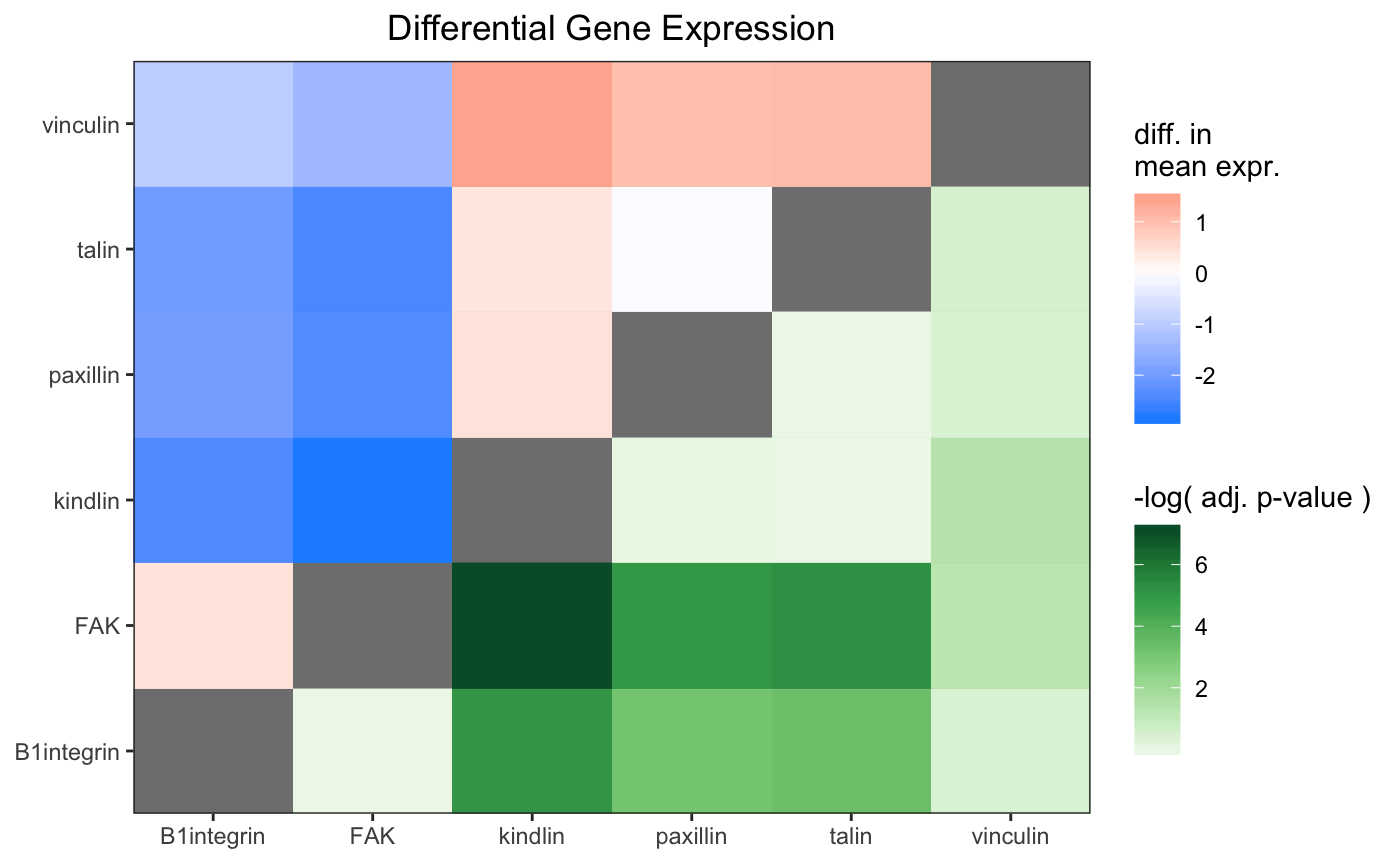
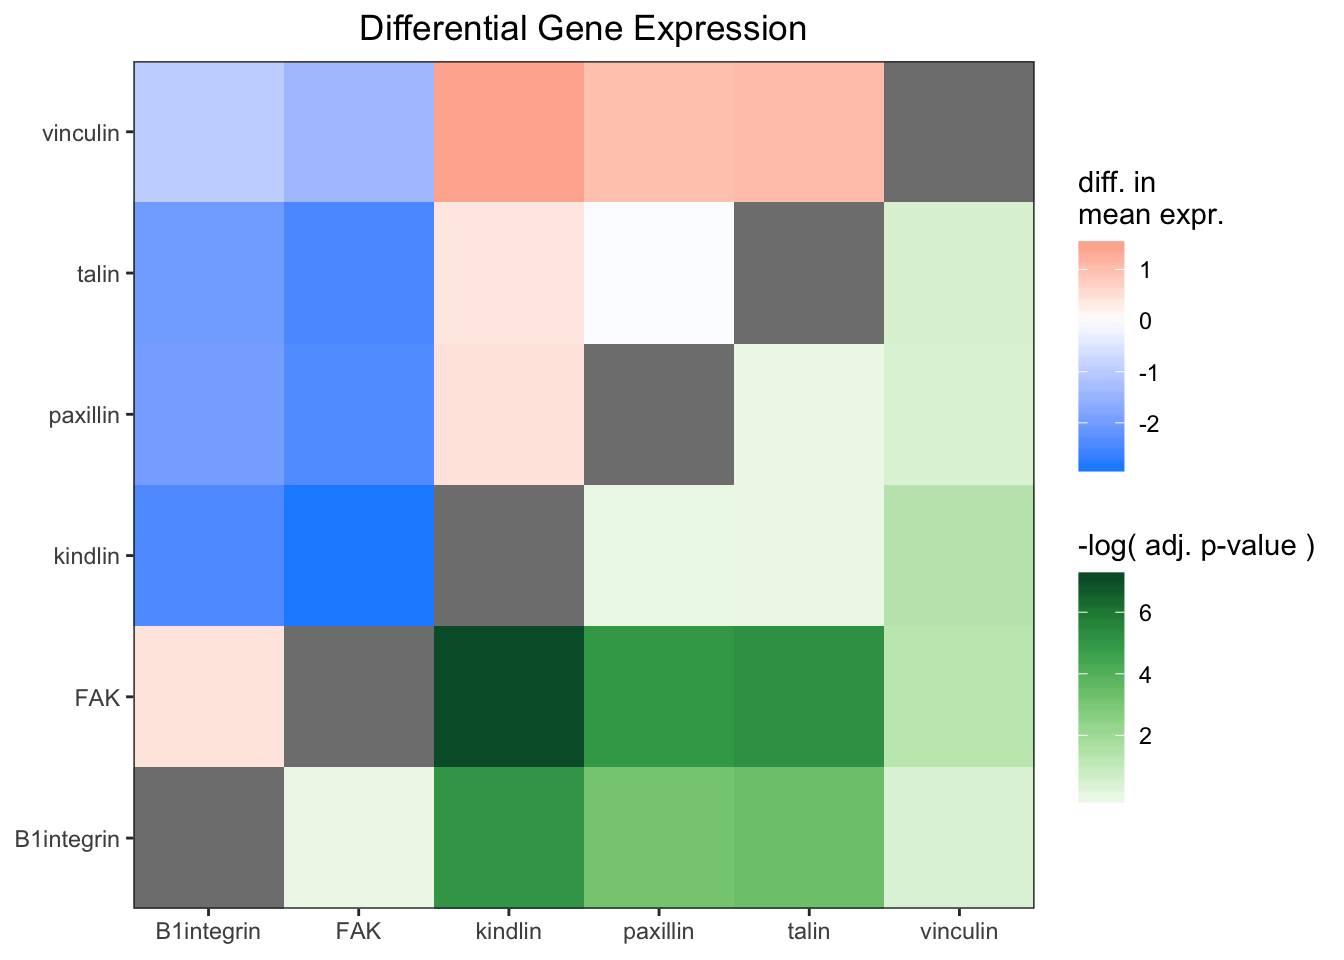
rebuilt site

diff --git a/docs/articles/ggasym-stats.html b/docs/articles/ggasym-stats.html
@@ -90,7 +90,7 @@
       <h1>Statistical Test Plotting with ‘ggasym’</h1>
                         <h4 class="author">Joshua H. Cook</h4>
             
-            <h4 class="date">2019-03-13</h4>
+            <h4 class="date">2019-03-17</h4>
       
       <small class="dont-index">Source: <a href="https://github.com/jhrcook/ggasym/blob/master/vignettes/ggasym-stats.Rmd"><code>vignettes/ggasym-stats.Rmd</code></a></small>
       <div class="hidden name"><code>ggasym-stats.Rmd</code></div>
@@ -102,7 +102,7 @@
 <div id="purpose" class="section level2">
 <h2 class="hasAnchor">
 <a href="#purpose" class="anchor"></a>Purpose</h2>
-<p>One of the great uses of ‘ggasym’ is to plot two values from the results of a multi-way statistical test. Each comparison is a cell, and two values can be used for the fills. Below I give brief examples and plot the differences in mean and the p-value on the symmetric matrix.</p>
+<p>One of the great uses of ‘ggasym’ is to plot two values from the results of a multi-way statistical test. Each comparison is a cell, and two values can be used for the fills. Below I give brief examples and plot the differences in mean and the <em>p</em>-value on the symmetric matrix.</p>
 <div class="sourceCode" id="cb1"><pre class="sourceCode r"><code class="sourceCode r"><a class="sourceLine" id="cb1-1" data-line-number="1"><span class="kw"><a href="https://www.rdocumentation.org/packages/base/topics/library">library</a></span>(dplyr)</a>
 <a class="sourceLine" id="cb1-2" data-line-number="2"><span class="kw"><a href="https://www.rdocumentation.org/packages/base/topics/library">library</a></span>(ggplot2)</a>
 <a class="sourceLine" id="cb1-3" data-line-number="3"><span class="kw"><a href="https://www.rdocumentation.org/packages/base/topics/library">library</a></span>(tibble)</a>
@@ -196,7 +196,7 @@
 <a class="sourceLine" id="cb6-2" data-line-number="2"><span class="st">    </span><span class="kw"><a href="../reference/geom_asymmat.html">geom_asymmat</a></span>(<span class="kw"><a href="https://ggplot2.tidyverse.org/reference/aes.html">aes</a></span>(<span class="dt">fill_tl =</span> estimate, <span class="dt">fill_br =</span> <span class="op">-</span><span class="kw"><a href="https://www.rdocumentation.org/packages/base/topics/Log">log</a></span>(adj.p.value))) <span class="op">+</span></a>
 <a class="sourceLine" id="cb6-3" data-line-number="3"><span class="st">    </span><span class="kw"><a href="../reference/scale_gradient.html">scale_fill_tl_gradient2</a></span>(<span class="dt">low =</span> <span class="st">"dodgerblue"</span>, <span class="dt">high =</span> <span class="st">"tomato"</span>) <span class="op">+</span></a>
 <a class="sourceLine" id="cb6-4" data-line-number="4"><span class="st">    </span><span class="kw"><a href="../reference/scale_gradient.html">scale_fill_br_distiller</a></span>(<span class="dt">type =</span> <span class="st">"seq"</span>, <span class="dt">palette =</span> <span class="st">"Greens"</span>, <span class="dt">direction =</span> <span class="dv">1</span>)</a></code></pre></div>
-<p><img src="ggasym-stats_files/figure-html/plot_res_basic-1.png" width="700"></p>
+<p><img src="ggasym-stats_files/figure-html/plot_res_basic-1.png" width="672" style="display: block; margin: auto;"></p>
 <p>And add a few styling changes with normal ‘ggplot2’ semantics.</p>
 <div class="sourceCode" id="cb7"><pre class="sourceCode r"><code class="sourceCode r"><a class="sourceLine" id="cb7-1" data-line-number="1"><span class="kw"><a href="https://ggplot2.tidyverse.org/reference/ggplot.html">ggplot</a></span>(asymmat_tib, <span class="kw"><a href="https://ggplot2.tidyverse.org/reference/aes.html">aes</a></span>(<span class="dt">x =</span> x, <span class="dt">y =</span> y)) <span class="op">+</span></a>
 <a class="sourceLine" id="cb7-2" data-line-number="2"><span class="st">    </span><span class="kw"><a href="../reference/geom_asymmat.html">geom_asymmat</a></span>(<span class="kw"><a href="https://ggplot2.tidyverse.org/reference/aes.html">aes</a></span>(<span class="dt">fill_tl =</span> estimate, <span class="dt">fill_br =</span> <span class="op">-</span><span class="kw"><a href="https://www.rdocumentation.org/packages/base/topics/Log">log</a></span>(adj.p.value))) <span class="op">+</span></a>
@@ -214,7 +214,7 @@
 <a class="sourceLine" id="cb7-14" data-line-number="14">         <span class="dt">fill_br =</span> <span class="st">"-log( adj. p-value )"</span>) <span class="op">+</span></a>
 <a class="sourceLine" id="cb7-15" data-line-number="15"><span class="st">    </span><span class="kw"><a href="https://ggplot2.tidyverse.org/reference/scale_discrete.html">scale_x_discrete</a></span>(<span class="dt">expand =</span> <span class="kw"><a href="https://www.rdocumentation.org/packages/base/topics/c">c</a></span>(<span class="dv">0</span>,<span class="dv">0</span>)) <span class="op">+</span></a>
 <a class="sourceLine" id="cb7-16" data-line-number="16"><span class="st">    </span><span class="kw"><a href="https://ggplot2.tidyverse.org/reference/scale_discrete.html">scale_y_discrete</a></span>(<span class="dt">expand =</span> <span class="kw"><a href="https://www.rdocumentation.org/packages/base/topics/c">c</a></span>(<span class="dv">0</span>,<span class="dv">0</span>))</a></code></pre></div>
-<p><img src="ggasym-stats_files/figure-html/plot_res_full-1.png" width="700"></p>
+<p><img src="ggasym-stats_files/figure-html/plot_res_full-1.png" width="672" style="display: block; margin: auto;"></p>
 <p>One of the conclusions that can be drawn here is that the difference in expression of kindlin and FAK is the greatest and has a very low adjusted p-value. Thus, one of the conclusion is that kindlin is expressed at a lower level than FAK.</p>
 <hr>
 <p>For more information, see the complete documentation at the <a href="https://jhrcook.github.io/ggasym/index.html">‘ggasym’</a> site.</p>

diff --git a/docs/news/index.html b/docs/news/index.html
@@ -127,14 +127,16 @@
 
     <div id="ggasym-0-1-0" class="section level1">
 <h1 class="page-header">
-<a href="#ggasym-0-1-0" class="anchor"></a>ggasym 0.1.0</h1>
+<a href="#ggasym-0-1-0" class="anchor"></a>ggasym 0.1.0<small> 2019-03-15 </small>
+</h1>
 <ul>
 <li>Package is ready for use! All major desired functions are implemented, tests are written and passing, and documentation is unified after the addition of the statistical test wrapper and diagonal fill.</li>
 </ul>
 </div>
     <div id="ggasym-0-0-0-9005" class="section level1">
 <h1 class="page-header">
-<a href="#ggasym-0-0-0-9005" class="anchor"></a>ggasym 0.0.0.9005</h1>
+<a href="#ggasym-0-0-0-9005" class="anchor"></a>ggasym 0.0.0.9005<small> Unreleased </small>
+</h1>
 <ul>
 <li>Introduced a wrapper for preparing the results of a statistical test for use in <code>geom_asymmat</code>
 </li>
@@ -142,35 +144,40 @@
 </div>
     <div id="ggasym-0-0-0-9004" class="section level1">
 <h1 class="page-header">
-<a href="#ggasym-0-0-0-9004" class="anchor"></a>ggasym 0.0.0.9004</h1>
+<a href="#ggasym-0-0-0-9004" class="anchor"></a>ggasym 0.0.0.9004<small> Unreleased </small>
+</h1>
 <ul>
 <li>Another fill aesthetic has been implemented along the diagonal: <code>fill_diag</code>. It has the standard assortment of wrapper functions for the continuous-scale fills.</li>
 </ul>
 </div>
     <div id="ggasym-0-0-0-9003" class="section level1">
 <h1 class="page-header">
-<a href="#ggasym-0-0-0-9003" class="anchor"></a>ggasym 0.0.0.9003</h1>
+<a href="#ggasym-0-0-0-9003" class="anchor"></a>ggasym 0.0.0.9003<small> Unreleased </small>
+</h1>
 <ul>
 <li>The “asymmetrization” preparation step down includes the ability to use <code><a href="https://dplyr.tidyverse.org/reference/group_by.html">dplyr::group_by</a></code> to maintain a column(s) that will be used for facetting.</li>
 </ul>
 </div>
     <div id="ggasym-0-0-0-9002" class="section level1">
 <h1 class="page-header">
-<a href="#ggasym-0-0-0-9002" class="anchor"></a>ggasym 0.0.0.9002</h1>
+<a href="#ggasym-0-0-0-9002" class="anchor"></a>ggasym 0.0.0.9002<small> Unreleased </small>
+</h1>
 <ul>
 <li>The <code>asymmetrise</code> function was included to prepare the input table before handing to ggplot2. This was necessary after I realized my previous version would not work if you passed the aesthetics for <code>x</code> and <code>y</code> to <code>ggplot()</code> before adding to <code><a href="../reference/geom_asymmat.html">geom_asymmat()</a></code>.</li>
 </ul>
 </div>
     <div id="ggasym-0-0-0-9001" class="section level1">
 <h1 class="page-header">
-<a href="#ggasym-0-0-0-9001" class="anchor"></a>ggasym 0.0.0.9001</h1>
+<a href="#ggasym-0-0-0-9001" class="anchor"></a>ggasym 0.0.0.9001<small> Unreleased </small>
+</h1>
 <ul>
 <li>I have figured out how to adjust the fill of the top-left and bottom-right triangles by adjusting the actual ggproto object. Therefore, I will be able to implement <code>ggasym</code> as a natural ggplot2 <code>geom_</code>! Currently, only <code>scale_fill_tl/br_fill()</code> are functional, but are great proofs-of-concept.</li>
 </ul>
 </div>
     <div id="ggasym-0-0-0-9000" class="section level1">
 <h1 class="page-header">
-<a href="#ggasym-0-0-0-9000" class="anchor"></a>ggasym 0.0.0.9000</h1>
+<a href="#ggasym-0-0-0-9000" class="anchor"></a>ggasym 0.0.0.9000<small> Unreleased </small>
+</h1>
 <ul>
 <li>
 <code>pkgdown</code> website begun - <code>ggasym</code> not yet functional.</li>

diff --git a/docs/index.html b/docs/index.html
@@ -303,7 +303,6 @@
 <h3 class="hasAnchor">
 <a href="#thank-yous" class="anchor"></a>Thank yous</h3>
 <p>I would like to thank the team behind <a href="https://ggplot2.tidyverse.org">‘ggplot2’</a> for creating a flexible and powerful package for the R community.</p>
-<p>Logo made with <a href="https://www.designevo.com/en/">DesignEvo</a>.</p>
 <p>If you see any mistakes (including small typos) <em>please</em> open an <a href="https://github.com/jhrcook/ggasym/issues">issue</a> and leave a quick statement. Do not worry about appearing annoying.</p>
 </div>
 </div>
@@ -314,6 +313,8 @@
     <div class="links">
 <h2>Links</h2>
 <ul class="list-unstyled">
+<li>Download from CRAN at <br><a href="https://cloud.r-project.org/package=ggasym">https://cloud.r-project.org/package=ggasym</a>
+</li>
 <li>Browse source code at <br><a href="https://github.com/jhrcook/ggasym">https://github.com/jhrcook/ggasym</a>
 </li>
 <li>Report a bug at <br><a href="https://github.com/jhrcook/ggasym/issues">https://github.com/jhrcook/ggasym/issues</a>
@@ -339,6 +340,7 @@
 <ul class="list-unstyled">
 <li><a href="https://www.gnu.org/licenses/gpl-3.0"><img src="https://img.shields.io/badge/License-GPLv3-blue.svg" alt="License: GPL v3"></a></li>
 <li><a href="https://cran.r-project.org/package=ggasym"><img src="https://www.r-pkg.org/badges/version/ggasym" alt="CRAN status"></a></li>
+<li><a href="https://cran.r-project.org/package=ggasym"><img src="http://cranlogs.r-pkg.org/badges/grand-total/ggasym" alt="CRAN downloads"></a></li>
 <li><a href="https://travis-ci.org/jhrcook/ggasym"><img src="https://travis-ci.org/jhrcook/ggasym.svg?branch=master" alt="Travis build status"></a></li>
 <li><a href="https://ci.appveyor.com/project/jhrcook/ggasym"><img src="https://ci.appveyor.com/api/projects/status/github/jhrcook/ggasym?branch=master&amp;svg=true" alt="AppVeyor build status"></a></li>
 <li><a href="https://codecov.io/github/jhrcook/ggasym?branch=master"><img src="https://codecov.io/gh/jhrcook/ggasym/branch/master/graph/badge.svg" alt="Coverage status"></a></li>
